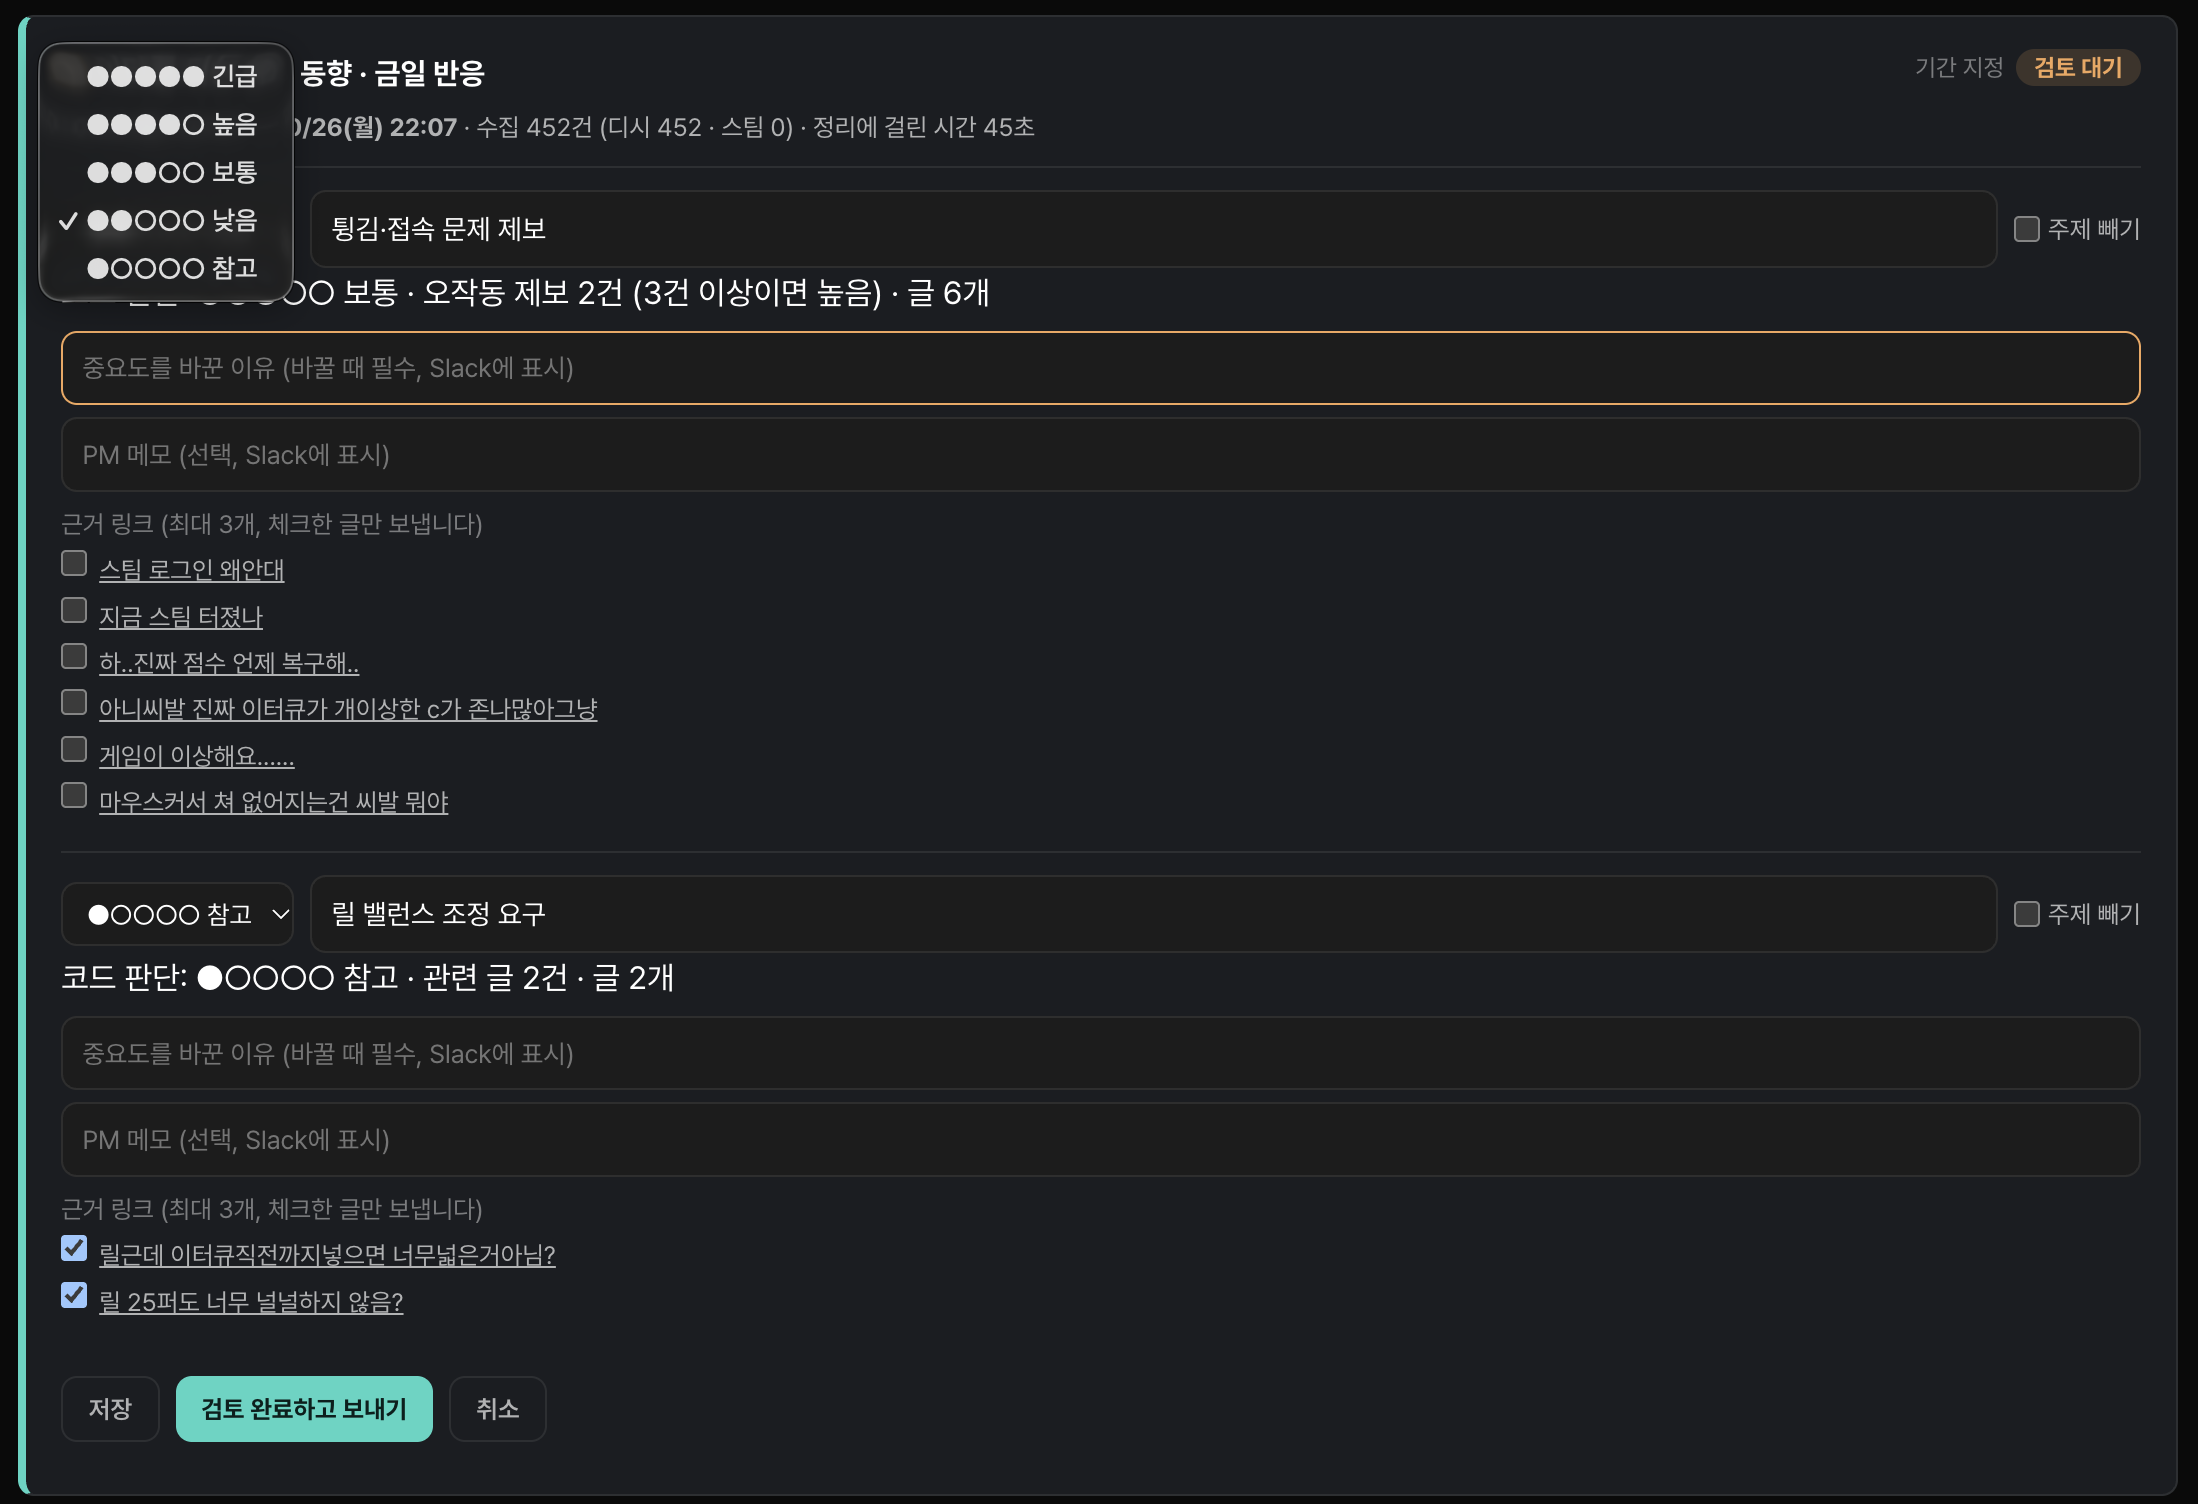
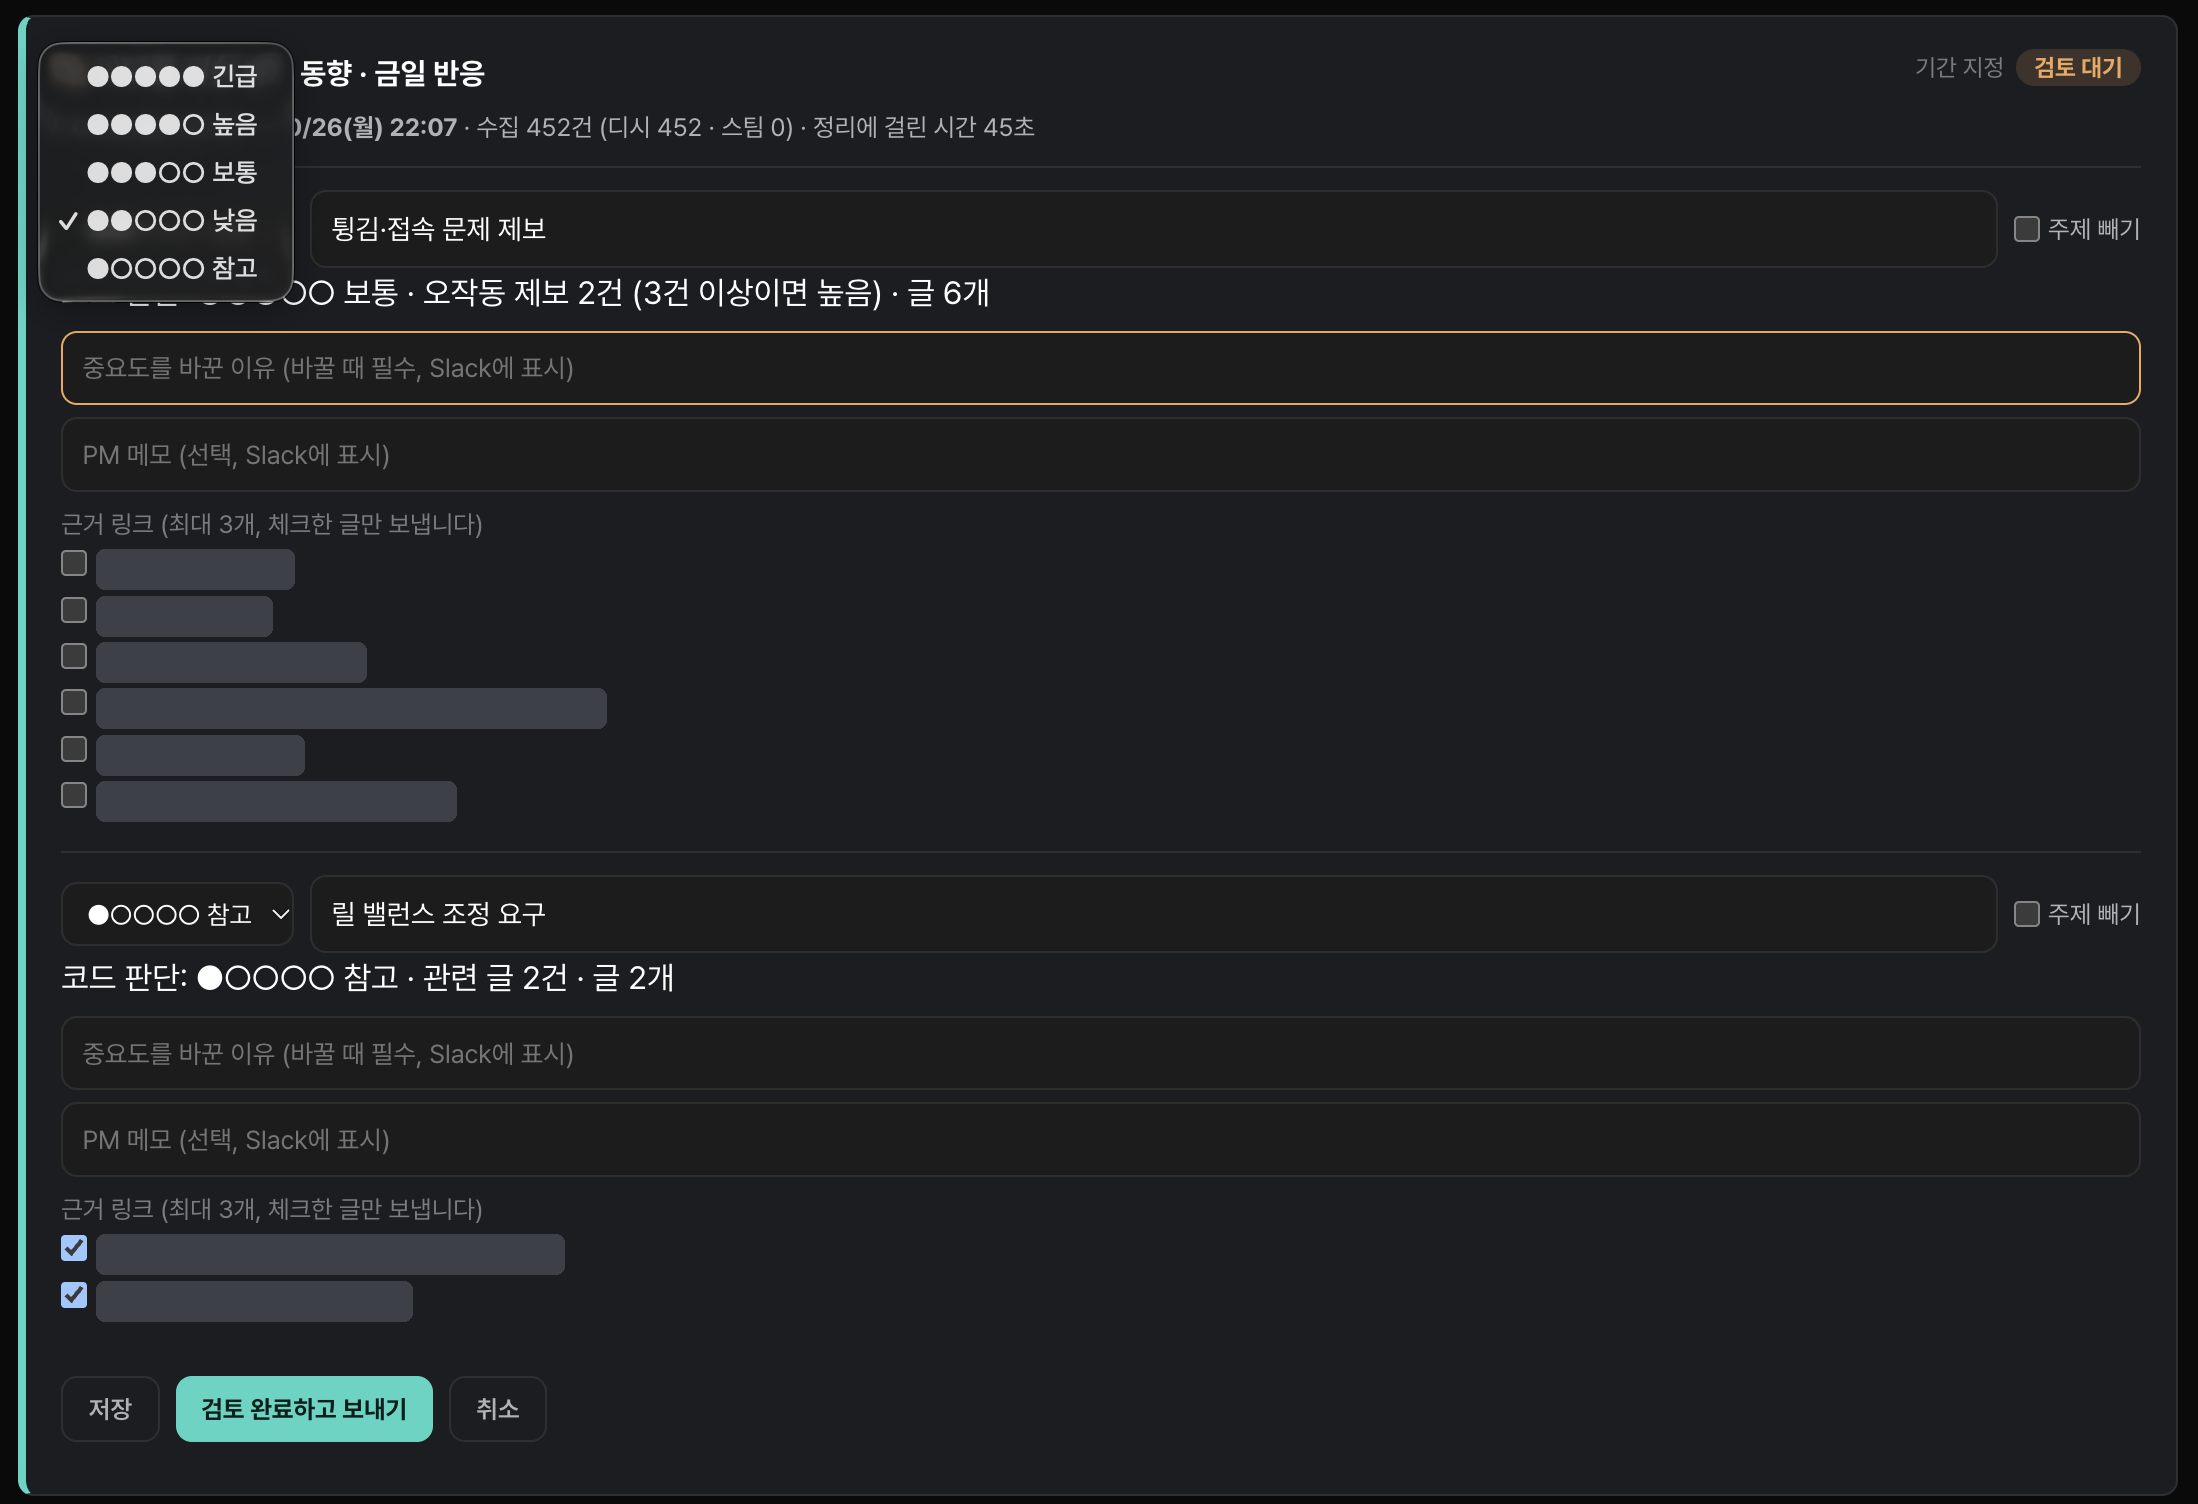
docs: 스크린샷 게시글 제목 가림, 소개 문구 정리

Changed region(s): [[0.0309, 0.3438, 0.2784, 0.5625], [0.0309, 0.8125, 0.2784, 0.9062]]

diff --git a/web/index.html b/web/index.html
@@ -95,7 +95,7 @@ footer{font-size:12px;color:var(--t3);padding:1.2rem 0 2.5rem}
   <div class="top">
     <a class="back" href="/">← 전찬혁 포트폴리오</a>
     <h1>유저 동향 아침 브리핑</h1>
-    <p class="lead">게임사 인턴 때 커뮤니티 동향 파악 과제에 <b>약 2시간</b>이 걸렸고, 현업 담당자도 매일 아침 <b>20~30분</b>을 들여 정리해 공유한다고 들었습니다. 이 시간을 줄이려고 만들었습니다. 매시간 공개 커뮤니티 글을 모으고, 정해진 시각에 <b>중요도 순 동향을 Slack 전체 채널로</b> 보냅니다. 월요일에는 금요일 아침 이후 주말 동향을 한 번에 보냅니다. 보내기 전에 <b>PM이 검토·수정</b>할 수 있습니다.</p>
+    <p class="lead">게임사 사업PM 인턴 때 커뮤니티 동향 파악 과제에 <b>약 2시간</b>이 걸렸습니다. 이 시간을 줄이려고 만들었습니다. 매시간 공개 커뮤니티 글을 모으고, 정해진 시각에 <b>중요도 순 동향을 Slack 전체 채널로</b> 보냅니다. 월요일에는 금요일 아침 이후 주말 동향을 한 번에 보냅니다. 보내기 전에 <b>PM이 검토·수정</b>할 수 있습니다.</p>
     <div class="flow"><span>매시간 수집 (디시 갤러리 · 스팀 리뷰)</span><span class="ai">AI: 글마다 성격 분류 (버그·장애·밸런스·질문…)</span><span>코드: 묶기·고정 기준으로 중요도</span><span>관리자 검토·수정</span><span>Slack 발송 (요일·시각 설정)</span><span>각 부서가 자기 주제 확인</span></div>
   </div>
 

diff --git a/README.md b/README.md
@@ -13,7 +13,7 @@
 
 ## 왜 만들었나
 
-게임사 사업PM 인턴 때 커뮤니티 동향 파악 과제에 **약 2시간**이 걸렸고, 현업 담당자도 매일 아침 **20~30분**을 들여 정리해 공유한다고 들었습니다.
+게임사 사업PM 인턴 때 커뮤니티 동향 파악 과제에 **약 2시간**이 걸렸습니다.
 출시 후 모니터링에서 커뮤니티 반응을 매일 확인하는 일을 자동화해, PM은 **판단과 전달**에 시간을 쓰도록 하는 것이 목표입니다. 리포트 초안 한 건을 만드는 데 걸리는 시간은 실제 실행에서 **약 30~45초**입니다.
 
 ## 구조
